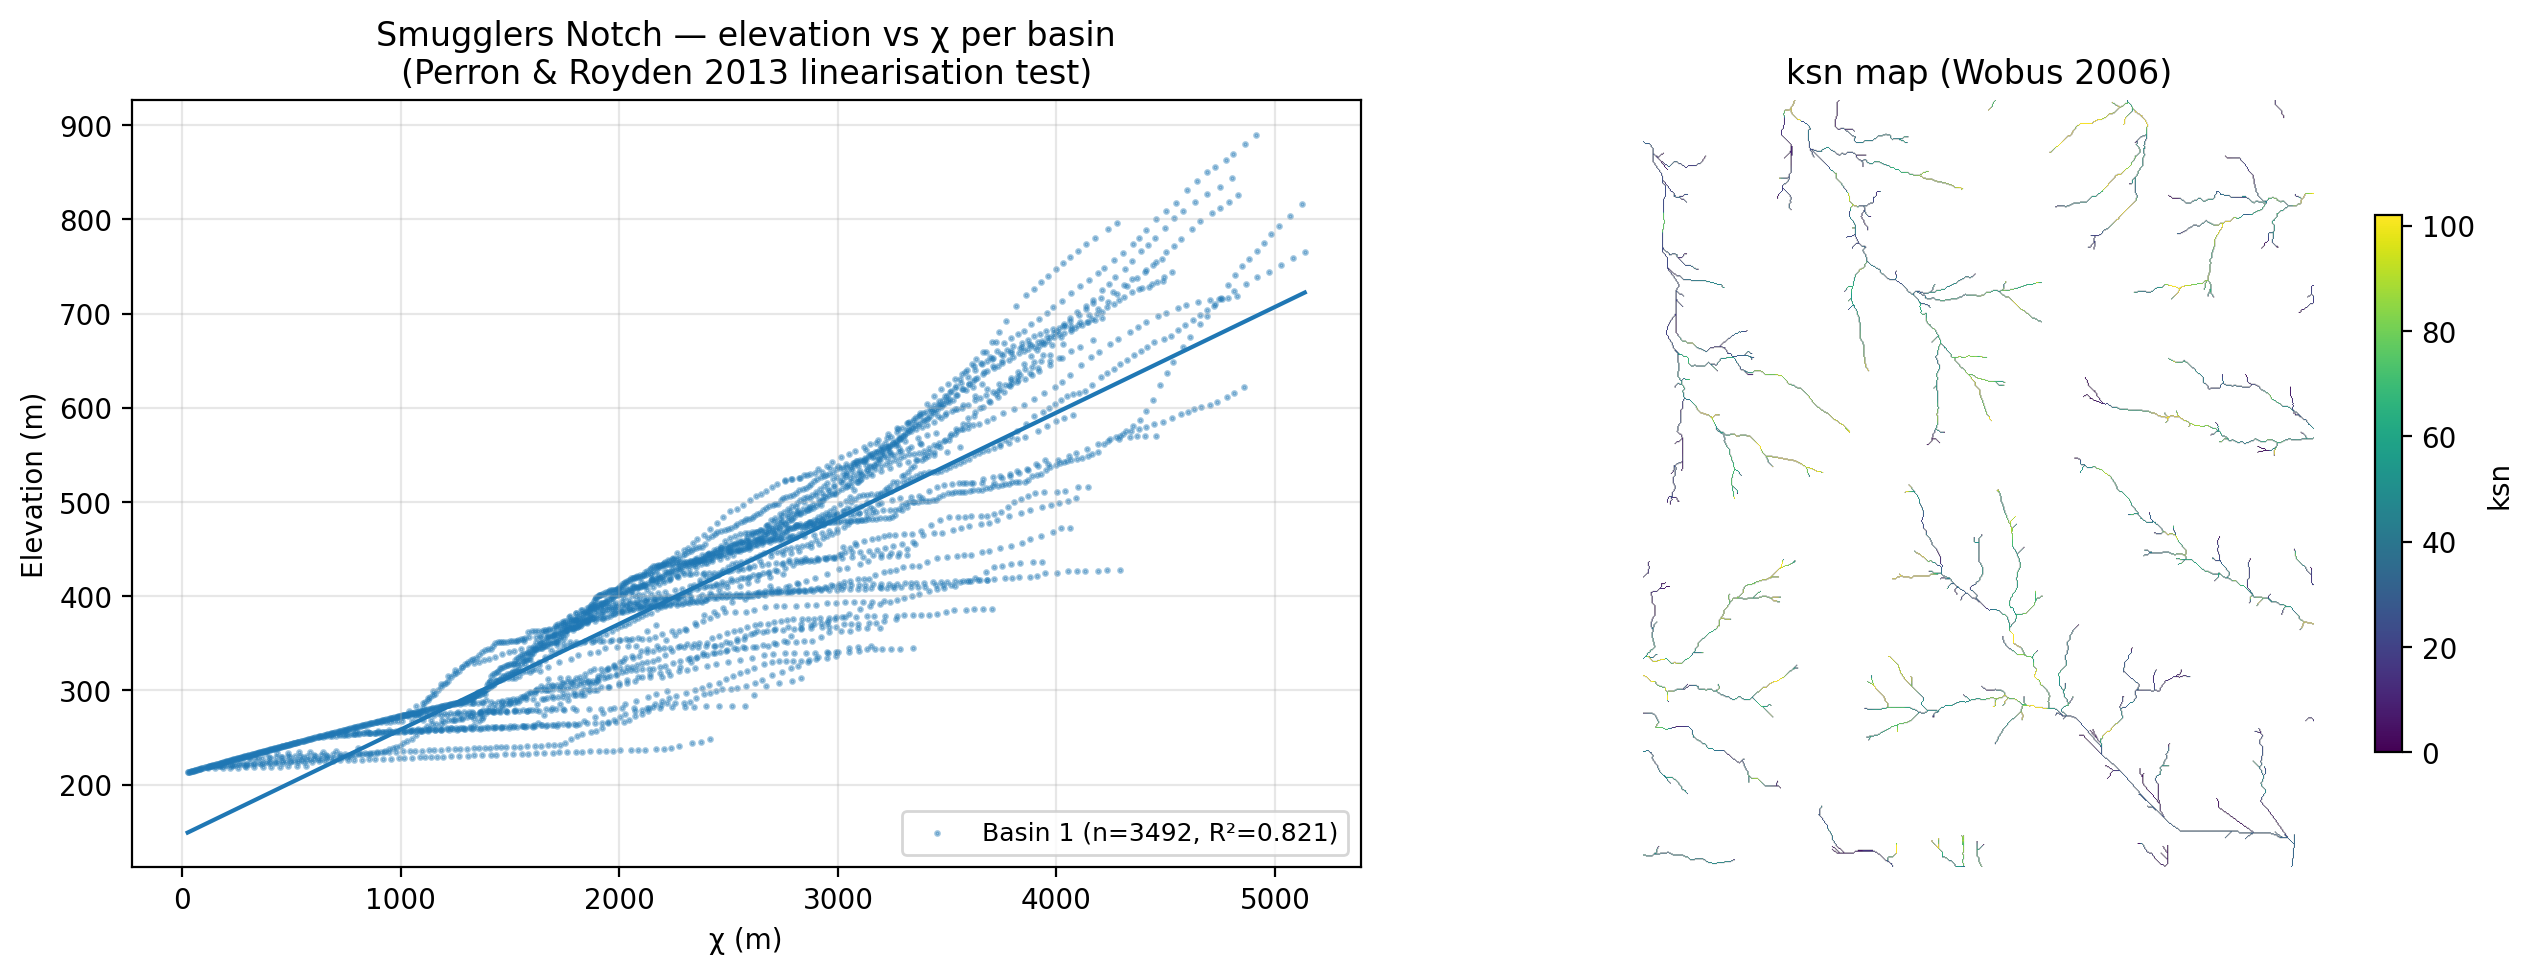
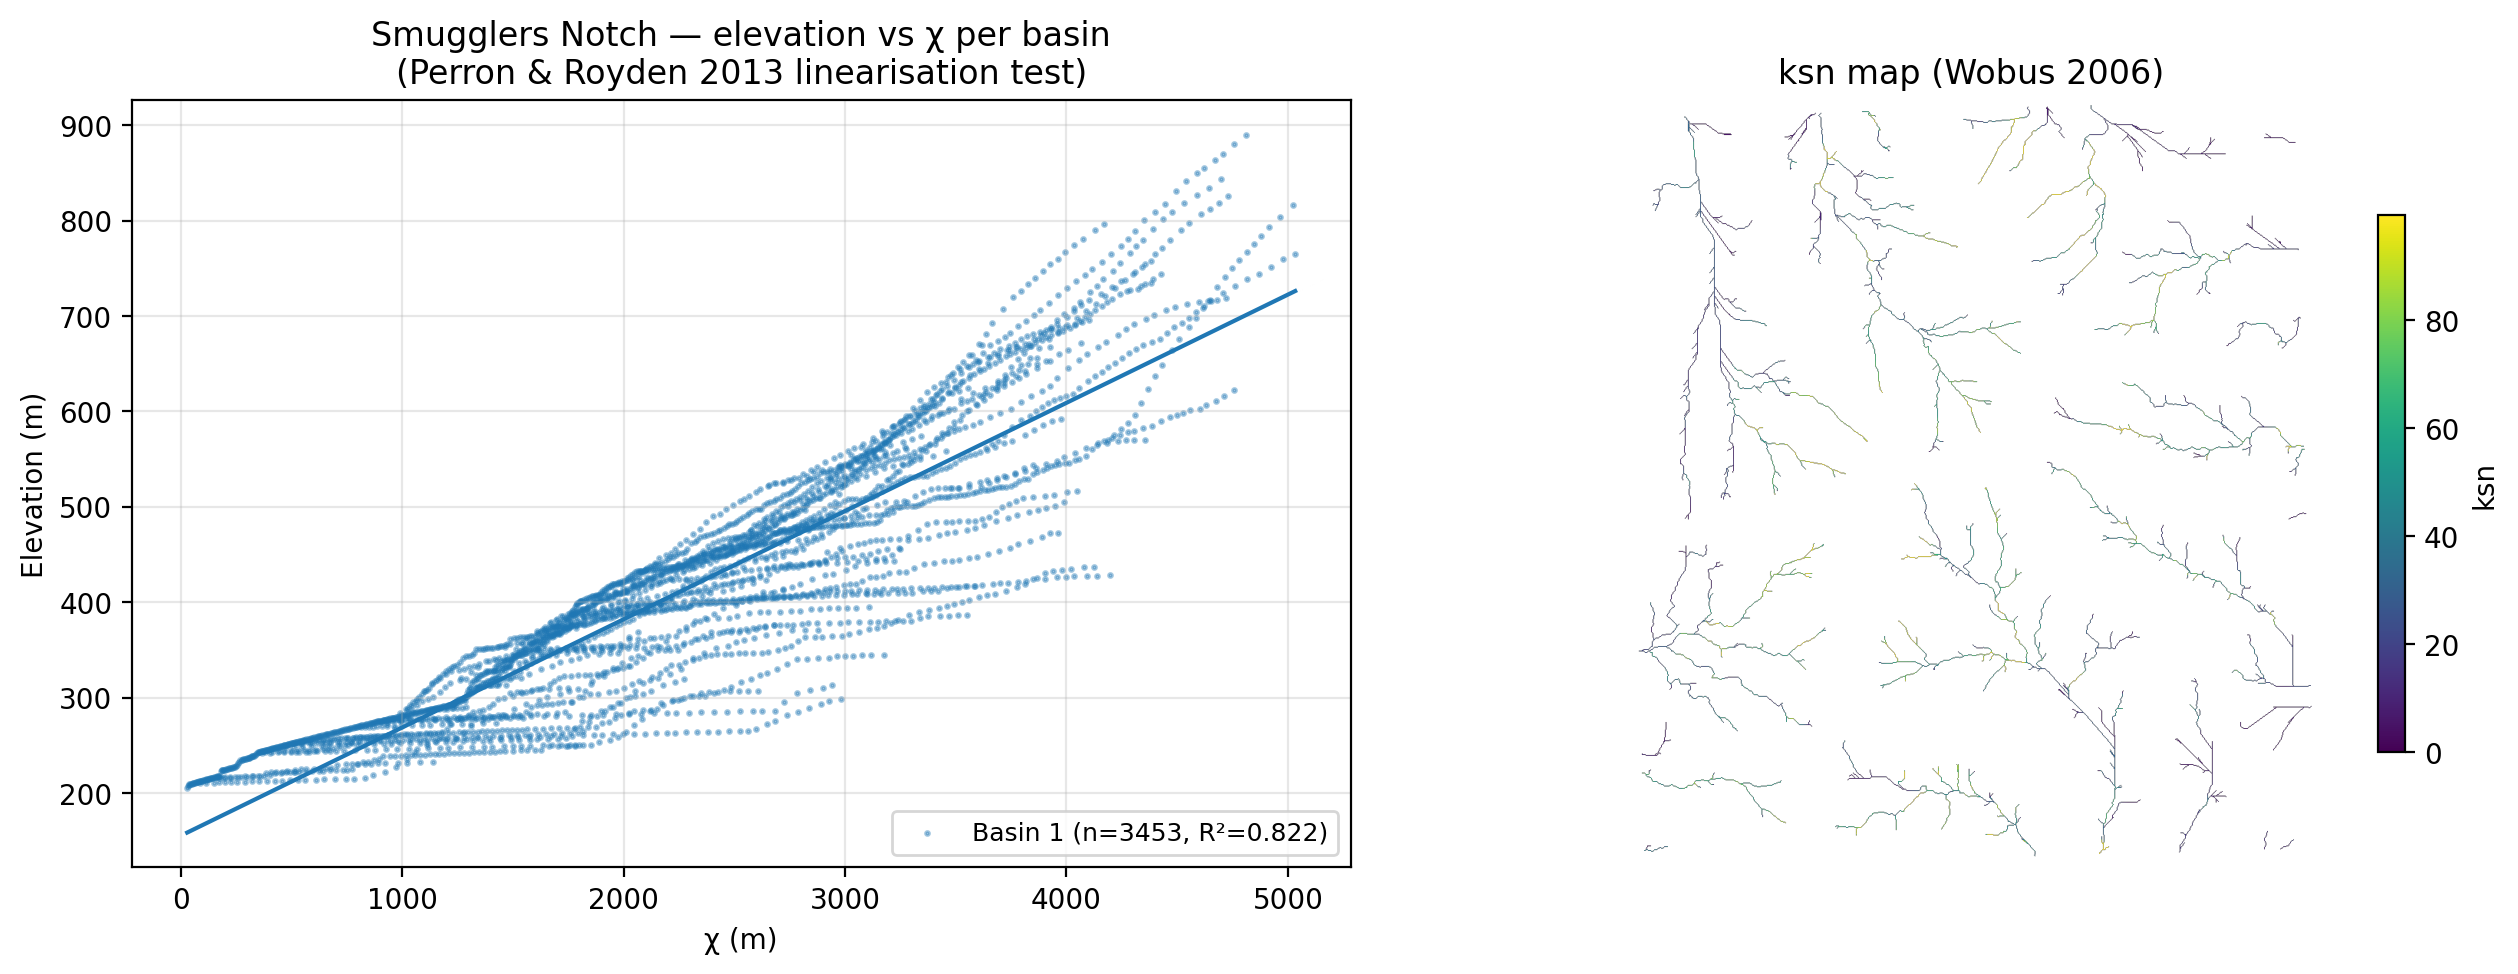
v0.10.2: fix fill-sinks NaN-barrier silent corruption
Reprojected DEMs (typical: WGS84 -> UTM rotated grids) leave NaN
cells at the corners. Earlier fill-sinks could not find drainage
paths around the NaN curtains, leaving interior valid cells stuck
at f64::MAX / 2.0 and contaminating every downstream stage with
garbage values.

The fix treats NaN/nodata cells as drainage exits in the
Planchon-Darboux init: interior cells 8-adjacent to a NaN neighbour
are now initialised to their DEM value (acting as drains), matching
the GIS convention and the existing priority_flood behaviour. NaN
cells themselves stay NaN in the output. Output nodata metadata is
normalised to Some(NaN) regardless of input sentinel.

Surfaced during Sprint 7 Smugglers Notch validation (commit
f7da94e). Validation example now runs without the defensive clip
step; R² = 0.82 on the main basin (vs 0.82 with the clip) confirms
the fix is semantically inert on the workflow that previously
required the workaround.

Tests: 3 new unit tests (interior NaN preservation, four-corner
NaN curtain, sentinel-to-NaN conversion) + debug_assert guard.
8/8 fill_sinks tests pass; 82/82 hydrology tests pass.

diff --git a/crates/algorithms/src/hydrology/fill_sinks.rs b/crates/algorithms/src/hydrology/fill_sinks.rs
@@ -96,23 +96,50 @@ pub fn fill_sinks(dem: &Raster<f64>, params: FillSinksParams) -> Result<Raster<f
     let big_value = f64::MAX / 2.0;
     let mut w = Array2::from_elem((rows, cols), big_value);
 
-    // Set border cells to DEM values
+    // Init pass: nodata cells preserve NaN; physical-border AND
+    // nodata-adjacent cells initialise to DEM value (they act as
+    // drainage exits); everything else stays at big_value.
+    //
+    // Why nodata-adjacent counts as boundary: when reprojection leaves
+    // NaN curtains between the physical border and a valid interior
+    // (typical of WGS84 -> UTM rotated grids), interior cells that
+    // see only NaN neighbours have no drainage path under the original
+    // init scheme, so they stay at big_value and contaminate
+    // every downstream tool. Treating NaN as a drainage exit matches
+    // GIS convention and what priority_flood already does.
+    let is_nodata = |val: f64| -> bool {
+        match nodata {
+            Some(nd) => val.is_nan() || (val - nd).abs() < f64::EPSILON,
+            None => val.is_nan(),
+        }
+    };
+
     for row in 0..rows {
         for col in 0..cols {
             let val = unsafe { dem.get_unchecked(row, col) };
 
-            let is_nodata = match nodata {
-                Some(nd) => val.is_nan() || (val - nd).abs() < f64::EPSILON,
-                None => val.is_nan(),
-            };
-
-            if is_nodata {
-                w[(row, col)] = val;
+            if is_nodata(val) {
+                w[(row, col)] = f64::NAN;
                 continue;
             }
 
-            // Border cells
-            if row == 0 || row == rows - 1 || col == 0 || col == cols - 1 {
+            let physical_border =
+                row == 0 || row == rows - 1 || col == 0 || col == cols - 1;
+
+            let mut nodata_adjacent = false;
+            if !physical_border {
+                for (dr, dc) in D8_OFFSETS.iter() {
+                    let nr = (row as isize + dr) as usize;
+                    let nc = (col as isize + dc) as usize;
+                    let nv = unsafe { dem.get_unchecked(nr, nc) };
+                    if is_nodata(nv) {
+                        nodata_adjacent = true;
+                        break;
+                    }
+                }
+            }
+
+            if physical_border || nodata_adjacent {
                 w[(row, col)] = val;
             }
         }
@@ -209,8 +236,17 @@ pub fn fill_sinks(dem: &Raster<f64>, params: FillSinksParams) -> Result<Raster<f
         }
     }
 
+    debug_assert!(
+        w.iter().all(|&v| v.is_nan() || v < big_value),
+        "fill-sinks: some interior cells did not drain"
+    );
+
     let mut output = dem.like(0.0);
     *output.data_mut() = w;
+    // Normalise nodata metadata to NaN regardless of input sentinel,
+    // matching the data array (sentinel cells were converted to NaN
+    // during init).
+    output.set_nodata(Some(f64::NAN));
 
     Ok(output)
 }
@@ -358,5 +394,158 @@ mod tests {
             center,
             neighbor
         );
+    }
+
+    #[test]
+    fn test_fill_sinks_preserves_interior_nan() {
+        // 5x5 sloped plane with one NaN cell and one sink next to it.
+        let mut dem = Raster::new(5, 5);
+        dem.set_transform(GeoTransform::new(0.0, 5.0, 1.0, -1.0));
+        for row in 0..5 {
+            for col in 0..5 {
+                dem.set(row, col, (row + col) as f64).unwrap();
+            }
+        }
+        dem.set(2, 2, f64::NAN).unwrap();
+        // Sink directly adjacent to the NaN cell.
+        dem.set(2, 3, 0.5).unwrap();
+
+        let filled = fill_sinks(&dem, FillSinksParams { min_slope: 0.0 }).unwrap();
+
+        // NaN preserved.
+        assert!(
+            filled.get(2, 2).unwrap().is_nan(),
+            "NaN cell at (2,2) must be preserved"
+        );
+        // Sink filled to a finite, reasonable value (never big_value).
+        let sink = filled.get(2, 3).unwrap();
+        assert!(
+            sink.is_finite() && sink.abs() < 1e100,
+            "Sink at (2,3) should be finite and not big_value, got {}",
+            sink
+        );
+        // Sink filled UP (>= original) to at least the level of a non-NaN neighbour.
+        assert!(sink >= 0.5, "Sink should be raised, got {}", sink);
+        // No cell anywhere should be big_value-leaked.
+        for row in 0..5 {
+            for col in 0..5 {
+                let v = filled.get(row, col).unwrap();
+                assert!(
+                    v.is_nan() || v.abs() < 1e100,
+                    "big_value leak at ({}, {}) = {}",
+                    row,
+                    col,
+                    v
+                );
+            }
+        }
+    }
+
+    #[test]
+    fn test_fill_sinks_with_nodata_curtain() {
+        // 9x9 DEM with 3x3 NaN blocks at each corner, leaving a
+        // cross-shaped valid region with a sink at the very centre.
+        // This is the synthetic analogue of a reprojected UTM grid:
+        // NaN curtains seal off most border-to-interior drainage paths.
+        let mut dem = Raster::new(9, 9);
+        dem.set_transform(GeoTransform::new(0.0, 9.0, 1.0, -1.0));
+        for row in 0..9 {
+            for col in 0..9 {
+                dem.set(row, col, 10.0).unwrap();
+            }
+        }
+        // Four 3x3 NaN corners.
+        for (r0, c0) in [(0, 0), (0, 6), (6, 0), (6, 6)] {
+            for dr in 0..3 {
+                for dc in 0..3 {
+                    dem.set(r0 + dr, c0 + dc, f64::NAN).unwrap();
+                }
+            }
+        }
+        // Centre sink.
+        dem.set(4, 4, 2.0).unwrap();
+
+        let filled = fill_sinks(&dem, FillSinksParams { min_slope: 0.0 }).unwrap();
+
+        // All NaN corners preserved.
+        for (r0, c0) in [(0, 0), (0, 6), (6, 0), (6, 6)] {
+            for dr in 0..3 {
+                for dc in 0..3 {
+                    let v = filled.get(r0 + dr, c0 + dc).unwrap();
+                    assert!(
+                        v.is_nan(),
+                        "Corner NaN cell ({}, {}) was modified to {}",
+                        r0 + dr,
+                        c0 + dc,
+                        v
+                    );
+                }
+            }
+        }
+        // Sink at centre filled.
+        let centre = filled.get(4, 4).unwrap();
+        assert!(
+            centre.is_finite() && centre >= 2.0 && centre <= 10.0,
+            "Centre sink (4,4) should be filled to a finite value in [2, 10], got {}",
+            centre
+        );
+        // No big_value leak anywhere.
+        for row in 0..9 {
+            for col in 0..9 {
+                let v = filled.get(row, col).unwrap();
+                assert!(
+                    v.is_nan() || v.abs() < 1e100,
+                    "big_value leak at ({}, {}) = {}",
+                    row,
+                    col,
+                    v
+                );
+            }
+        }
+        // Output nodata metadata is NaN.
+        assert!(
+            filled.nodata().is_some_and(|nd| nd.is_nan()),
+            "Output nodata metadata should be Some(NaN)"
+        );
+    }
+
+    #[test]
+    fn test_fill_sinks_explicit_nodata_sentinel() {
+        // Sentinel-based nodata (-9999) should be converted to NaN in output.
+        let mut dem = Raster::new(5, 5);
+        dem.set_transform(GeoTransform::new(0.0, 5.0, 1.0, -1.0));
+        for row in 0..5 {
+            for col in 0..5 {
+                dem.set(row, col, (row + col) as f64).unwrap();
+            }
+        }
+        dem.set(2, 2, -9999.0).unwrap();
+        dem.set_nodata(Some(-9999.0));
+
+        let filled = fill_sinks(&dem, FillSinksParams { min_slope: 0.0 }).unwrap();
+
+        // Sentinel cell becomes NaN in output (uniform convention).
+        assert!(
+            filled.get(2, 2).unwrap().is_nan(),
+            "Sentinel nodata cell should be NaN in output"
+        );
+        // Output nodata metadata is NaN, not the original sentinel.
+        assert!(
+            filled.nodata().is_some_and(|nd| nd.is_nan()),
+            "Output nodata metadata should be Some(NaN), not the sentinel"
+        );
+        // No big_value leak.
+        for row in 0..5 {
+            for col in 0..5 {
+                let v = filled.get(row, col).unwrap();
+                assert!(
+                    v.is_nan() || v.abs() < 1e100,
+                    "big_value leak at ({}, {}) = {}",
+                    row,
+                    col,
+                    v
+                );
+            }
+        }
     }
 }

diff --git a/CHANGELOG.md b/CHANGELOG.md
@@ -9,6 +9,53 @@ call them out under a `Breaking` heading when they happen.
 
 ## [Unreleased]
 
+## [0.10.2] - 2026-05-24
+
+Patch release that fixes a silent-corruption bug in
+`surtgis hydrology fill-sinks` when the input DEM contains NaN
+cells that form a barrier between the physical raster border and a
+valid interior region. This is the typical post-reprojection pattern:
+WGS84 → UTM leaves the rotated corners as NaN, and earlier versions
+of `fill-sinks` could not find drainage paths around the NaN
+curtains, leaving interior valid cells stuck at `f64::MAX / 2.0 ≈
+8.99e307`. Every downstream stage (flow-direction, flow-accumulation,
+χ, ksn, knickpoints) then operated on garbage. The defensive
+workaround — `surtgis clip --bbox` to a NaN-free interior — is no
+longer required.
+
+Surfaced during the Sprint 7 Smugglers Notch validation against
+Perron & Royden (2013); the validation example now runs without the
+clip step and produces R² = 0.82 on the main catchment as before.
+
+### Fixed
+
+- **`surtgis hydrology fill-sinks`** now treats NaN / nodata cells as
+  drainage exits in the Planchon-Darboux init, matching the GIS
+  convention (and the `priority_flood` implementation in the same
+  crate). Concretely: interior cells 8-adjacent to a NaN/nodata
+  neighbour are initialised to their DEM value, so they can act as
+  drains for cells further in. NaN cells themselves are preserved in
+  the output (no `inf` propagation, no `big_value` leak).
+- **`fill-sinks` output nodata metadata** is now uniformly
+  `Some(f64::NAN)` regardless of input sentinel. Explicit sentinel
+  values (e.g. `-9999.0`) in the input are converted to NaN in the
+  output for consistency with `priority_flood`.
+
+### Added
+
+- Three new unit tests for `fill-sinks` covering: interior NaN
+  preservation with adjacent sink, NaN curtain at all four corners
+  (synthetic analogue of reprojected UTM), and explicit
+  sentinel-nodata-to-NaN conversion.
+- Debug assertion that catches `big_value` leaks before they reach
+  the output raster; no cost in release builds.
+
+### Changed
+
+- **`examples/smugglers_notch_validation/run_validation.sh`** drops
+  the defensive `clip` step (steps renumbered 1–7 instead of 1–8).
+  README updated to reflect the v0.10.2 fix.
+
 ## [0.10.1] - 2026-05-24
 
 Patch release that fixes a real bug surfaced by the first external use

diff --git a/examples/smugglers_notch_validation/README.md b/examples/smugglers_notch_validation/README.md
@@ -41,16 +41,15 @@ bash run_validation.sh
 ```
 
 Runtime: ~3 minutes (most of it Earth Search download). Requires
-SurtGIS ≥ 0.10.1 + Python with rasterio, numpy, matplotlib.
+SurtGIS ≥ 0.10.2 + Python with rasterio, numpy, matplotlib.
 
 The script:
 1. Fetches a 22 × 22 km Copernicus GLO-30 DEM for the Smugglers Notch
    area via Earth Search (no auth required)
 2. Reprojects to UTM 18N (EPSG:32618)
-3. Clips to the NaN-free interior (~16 × 18 km)
-4. Runs the standard SurtGIS hydrology pipeline
-5. Computes χ + ksn + concavity
-6. Plots elevation~χ scatter + R² per basin + ksn map
+3. Runs the standard SurtGIS hydrology pipeline
+4. Computes χ + ksn + concavity
+5. Plots elevation~χ scatter + R² per basin + ksn map
 
 ## What's committed here
 
@@ -78,11 +77,11 @@ regenerate them under `/tmp/smugglers_notch_run/` (or override via
    along the AOI boundary) would yield multiple basins for inter-basin
    comparison; left as a future refinement.
 2. **The reprojection step leaves NaN at the corners** of the UTM grid
-   (rotated bbox). `fill-sinks` propagates `inf` through those NaN
-   cells, which would invalidate the entire downstream pipeline. The
-   workaround in step 4 of `run_validation.sh` clips to the interior;
-   a proper fix to surtgis `fill-sinks` (handle NaN gracefully) is
-   tracked separately.
+   (rotated bbox). Fixed in surtgis v0.10.2: `fill-sinks` now treats
+   NaN cells as drainage exits (matching `priority_flood` and standard
+   GIS convention), so reprojected DEMs no longer need a defensive
+   `clip` step. Earlier versions of this README documented a clip
+   workaround that has since been removed from `run_validation.sh`.
 3. **30 m Copernicus DEM** vs the ~10 m USGS NED P&R used. The chi
    linearisation signal is robust to resolution, but the absolute χ
    values and ksn distribution differ from P&R's published numbers by